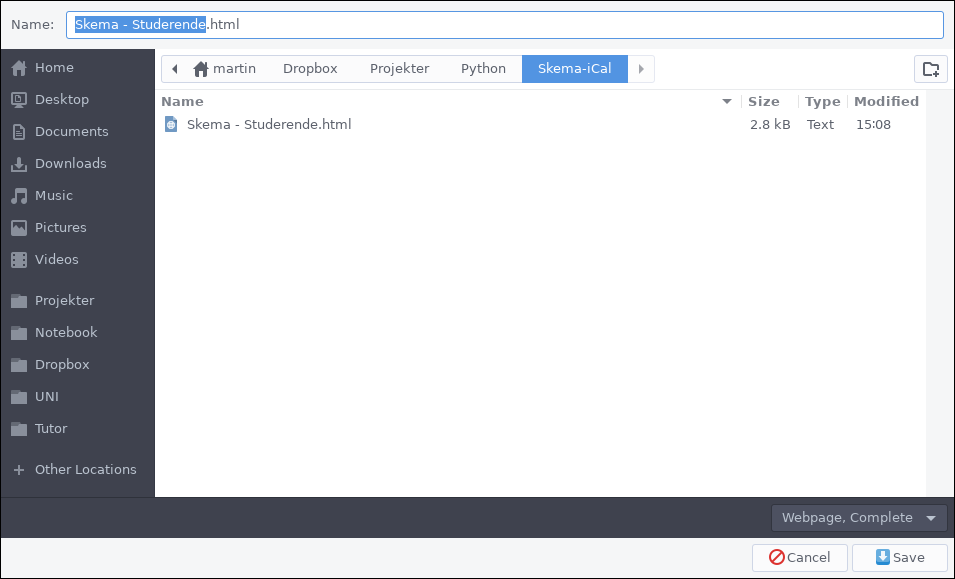
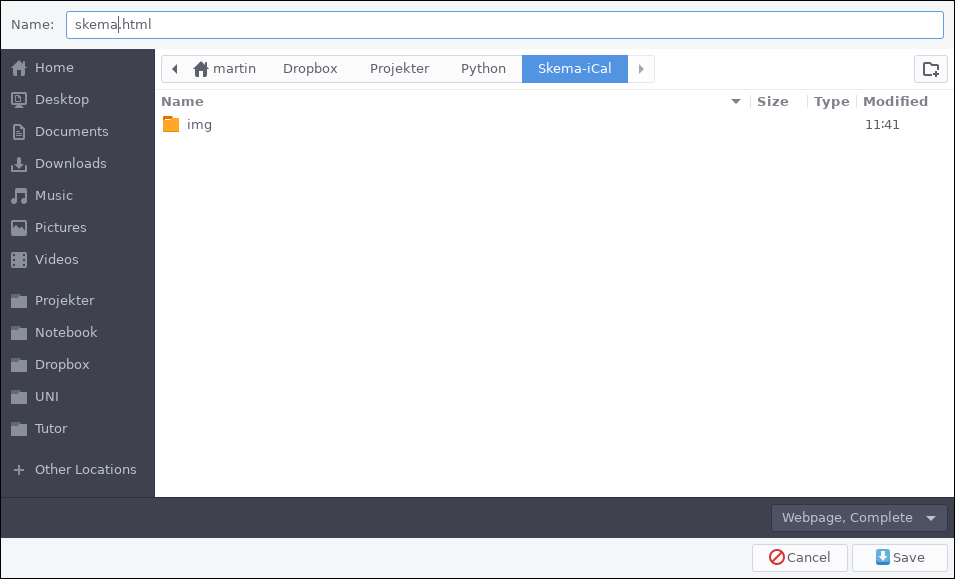
Tilføjet commandline options

diff --git a/skema.py b/skema.py
@@ -1,5 +1,7 @@
+import sys
 import re
 import logging
+import argparse
 
 from bs4 import BeautifulSoup
 from icalendar import Calendar, Event, vText
@@ -7,9 +9,8 @@ from datetime import datetime
 
 WEEKDATES = ["Mandag", "Tirsdag", "Onsdag",
              "Torsdag", "Fredag", "Lørdag", "Søndag"]
-INPUT_FILE_NAME = 'Skema-Studerende.html'
-OUTPUT_FILE_NAME = 'skema.ics'
-LOG = False
+
+STANDARD_OUTPUT_FILE_NAME = 'skema.ics'
 
 
 def fix_spacing(string):
@@ -17,8 +18,12 @@ def fix_spacing(string):
 
 
 def html_to_json(file_name):
-    with open(file_name, 'rb') as f:
-        soup = BeautifulSoup(f.read(), 'html.parser')
+    try:
+        with open(file_name, 'rb') as f:
+            soup = BeautifulSoup(f.read(), 'html.parser')
+    except FileNotFoundError:
+        print(f'{file_name} does not exist')
+        sys.exit(-1)
 
     courses_dict = {}
     courses = soup.find_all('h3')
@@ -57,7 +62,7 @@ def get_datetime(start_week, day, time, minutes):
     return datetime.strptime(day_str, "%Y-W%W-%w-%H:%M")
 
 
-def get_event_from_dict(course, activity_name, activity_dict):
+def get_event_from_dict(course, activity_name, activity_dict, academic):
     events = []
 
     for week in activity_dict["weeks"]:
@@ -81,7 +86,13 @@ def get_event_from_dict(course, activity_name, activity_dict):
 
         logging.info(f'Time: {start_time}:15-{end_time}:00')
 
-        event.add('dtstart', get_datetime(start_week, day, start_time, '15'))
+        start_min = '15'
+        if not academic:
+            start_min = '00'
+
+        event.add('dtstart', get_datetime(start_week, day,
+                                          start_time, start_min))
+
         event.add('dtend', get_datetime(start_week, day, end_time, '00'))
         event.add('rrule', {"FREQ": "WEEKLY",
                             "INTERVAL": 1,
@@ -93,7 +104,7 @@ def get_event_from_dict(course, activity_name, activity_dict):
     return events
 
 
-def make_cal(courses_dict):
+def make_cal(courses_dict, academic):
     cal = Calendar()
     cal.add('version', '2.0')
 
@@ -102,7 +113,8 @@ def make_cal(courses_dict):
             for activity_dict in activity_list:
                 for event in get_event_from_dict(course,
                                                  activity,
-                                                 activity_dict):
+                                                 activity_dict,
+                                                 academic):
                     cal.add_component(event)
     return cal
 
@@ -113,15 +125,40 @@ def calendar_to_file(cal, file_name):
 
 
 if __name__ == '__main__':
-    if LOG:
+    parser = argparse.ArgumentParser(
+             description='Convert skema HTML to ical file')
+
+    parser.add_argument('input_file_name', metavar='filename',
+                        help='the filename of the input file ending in .html')
+
+    parser.add_argument('-l', '--logging', action='store_true',
+                        help='show the log')
+
+    parser.add_argument('-n', '--notacademic', action='store_true',
+                        help='turn off academic starting time')
+
+    parser.add_argument('-o', '--output',
+                        help='output file name ending in .ics')
+
+    args = parser.parse_args()
+
+    if args.logging:
         logging.basicConfig(level=logging.INFO)
 
-    logging.info(f'Parsing: {INPUT_FILE_NAME}')
+    input_file_name = args.input_file_name
+    academic = not args.notacademic
 
-    courses_dict = html_to_json(INPUT_FILE_NAME)
+    if args.output:
+        output_file_name = args.output
+    else:
+        output_file_name = STANDARD_OUTPUT_FILE_NAME
+
+    logging.info(f'Parsing: {input_file_name}')
+
+    courses_dict = html_to_json(input_file_name)
 
     logging.info(f'Generating ical file')
-    cal = make_cal(courses_dict)
+    cal = make_cal(courses_dict, academic)
 
-    logging.info(f'Writing to {OUTPUT_FILE_NAME}')
-    calendar_to_file(cal, OUTPUT_FILE_NAME)
+    logging.info(f'Writing to {output_file_name}')
+    calendar_to_file(cal, output_file_name)

diff --git a/README.md b/README.md
@@ -8,6 +8,10 @@ Since AU added a login page to get course information. It has not been possible 
 
 
 
+![step1](img/preview.png)
+
+
+
 I have only tested the script on Google Calendar and thus I don't know whether it works on other Calendar programs such as iCal on MacOS. 
 
 
@@ -36,7 +40,7 @@ Download the HTML page by pressing Ctrl+S
 
 **Step 3:**
 
-Save the HTML page in the same folder as this repo
+Save the HTML page in the same folder as this repo as `skema.html`
 
 ![step3](img/step3.png)
 
@@ -56,12 +60,35 @@ pip3 install -r requirements.txt
 
 Run
 
-```
-python3 skema.py
+```bash
+python3 skema.py skema.html
 ```
 
 
 
 **Step 6:**
 
-Success you now have a skema.ics file which you can use in your favorite calendar program
+Success you now have a `skema.ics` file which you can use in your favorite calendar program
+
+
+
+## Command line arguments
+
+The script supports the following command line arguments: 
+
+```bash
+usage: skema.py [-h] [-l] [-n] [-o OUTPUT] filename
+
+Convert skema HTML to ical file
+
+positional arguments:
+  filename              the filename of the input file ending in .html
+
+optional arguments:
+  -h, --help            show this help message and exit
+  -l, --logging         show the log
+  -n, --notacademic     turn off academic starting time
+  -o OUTPUT, --output OUTPUT
+                        output file name ending in .ics
+```
+
